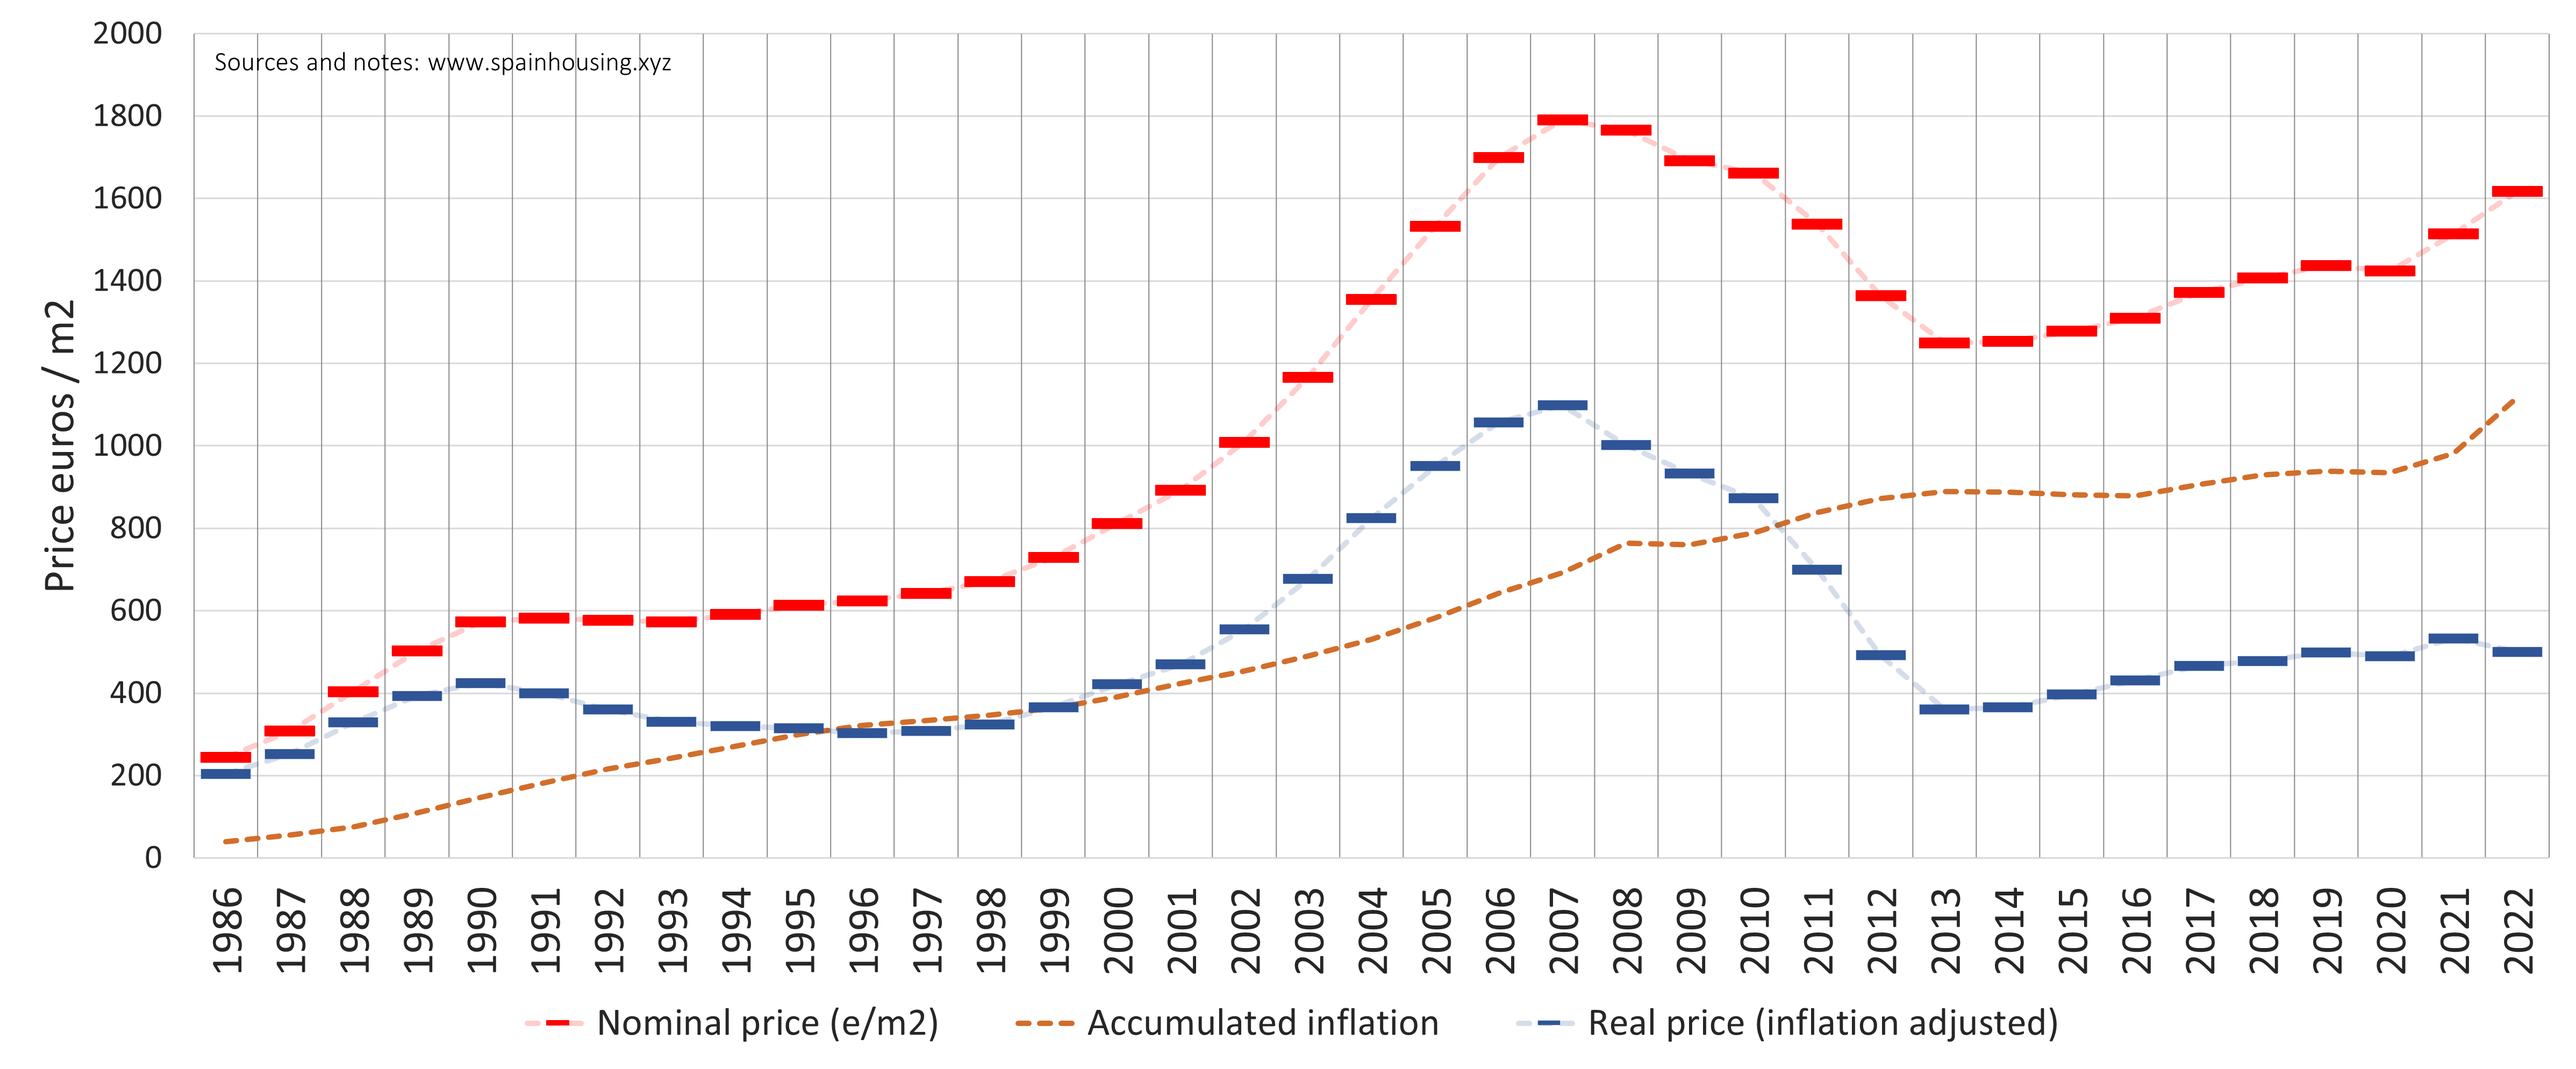
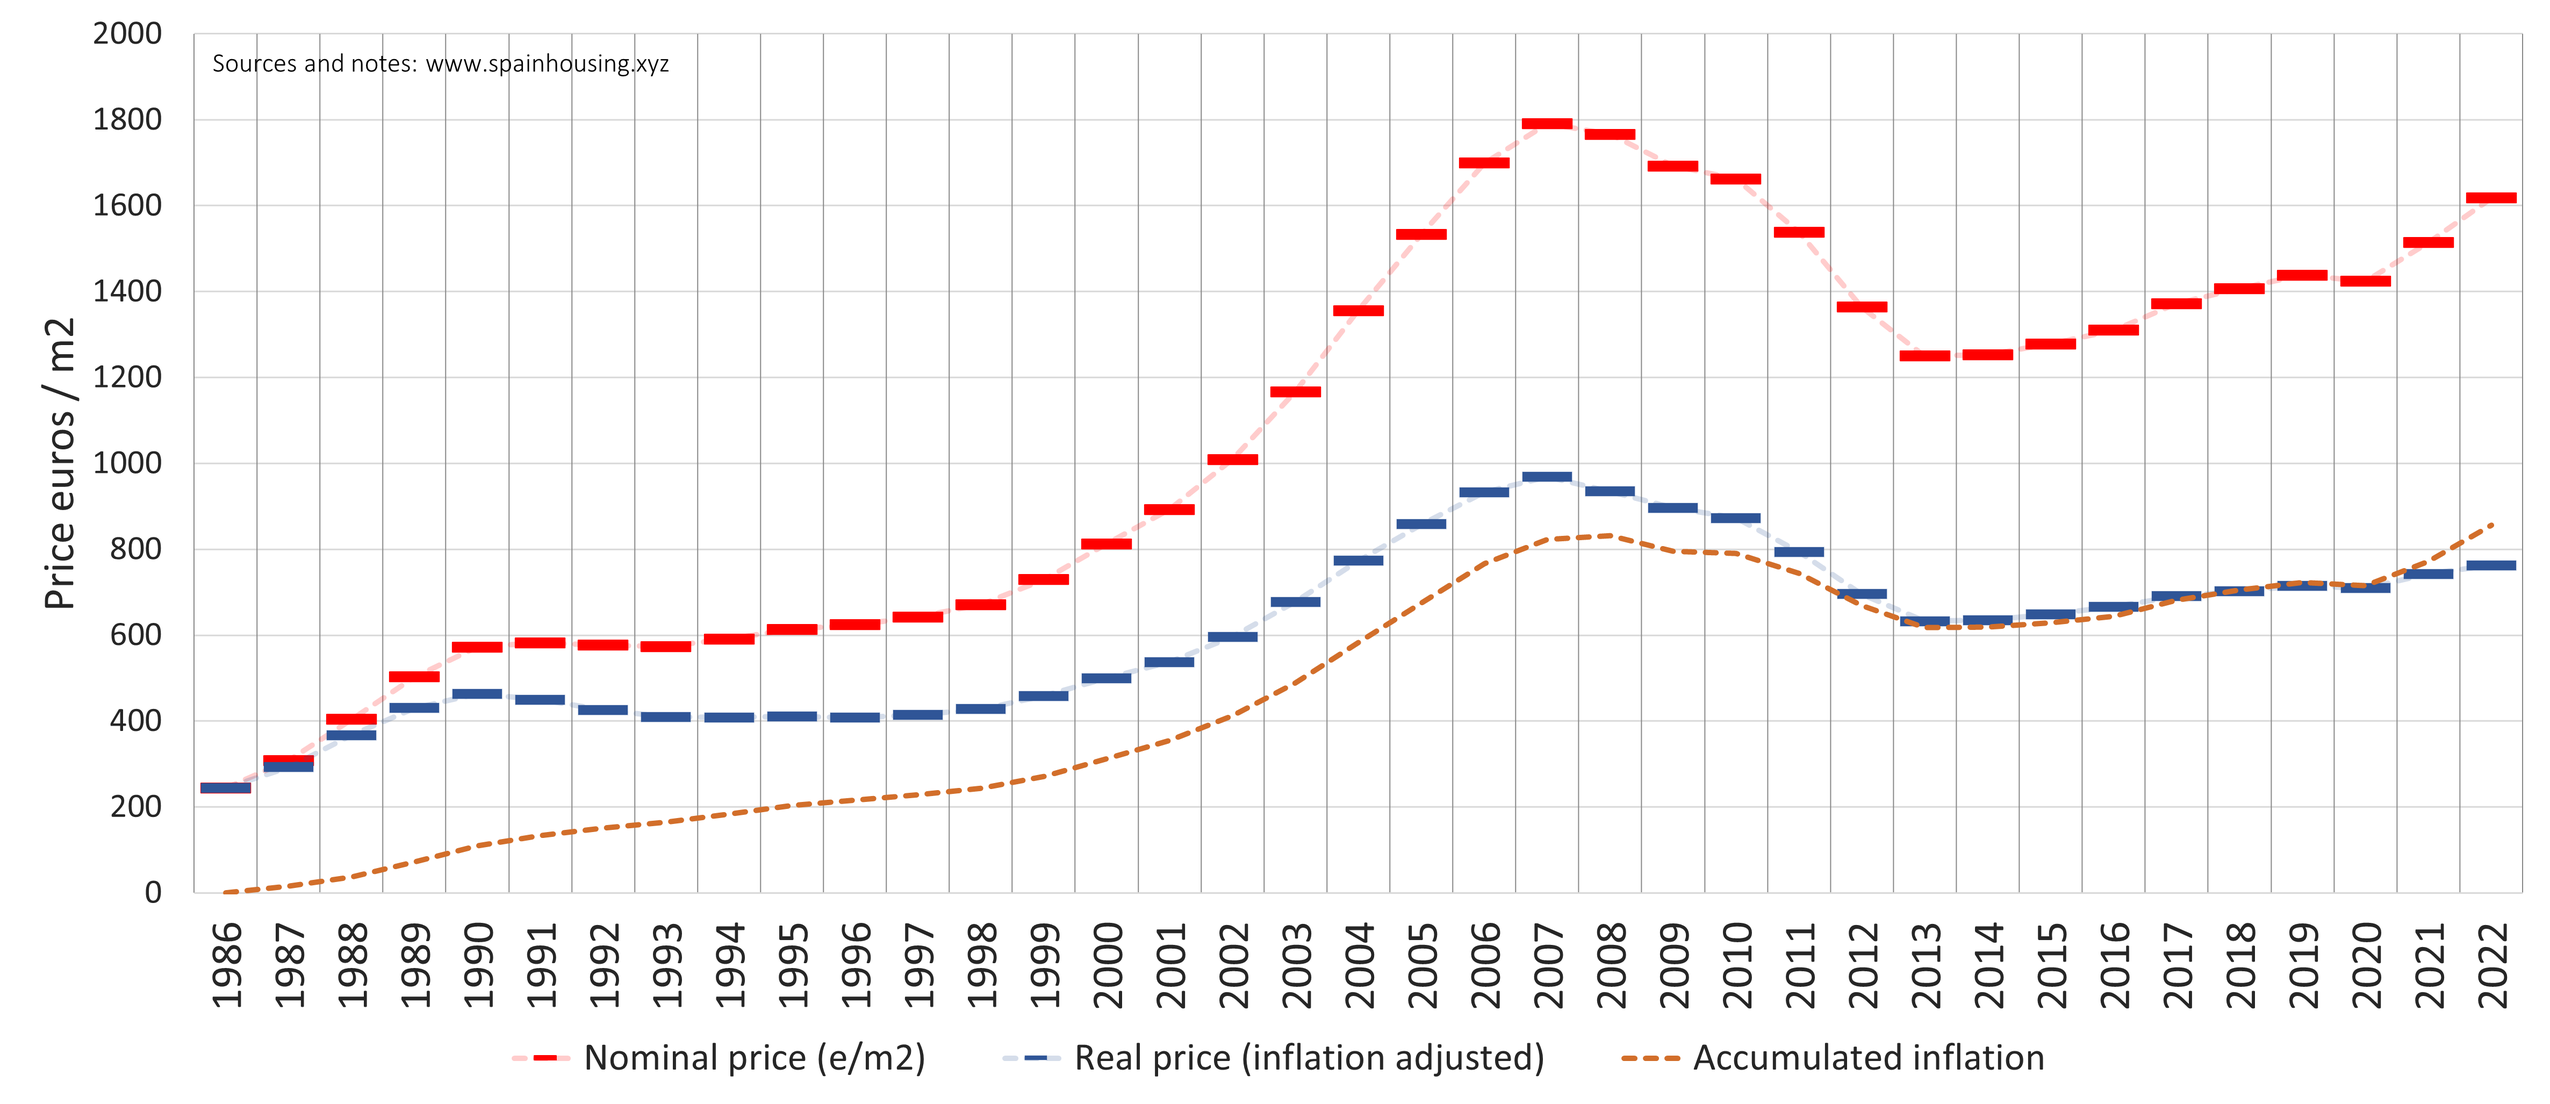
updte

diff --git a/pages/posts/multivariate.md b/pages/posts/multivariate.md
@@ -12,17 +12,16 @@ import Image from 'next/image'
 
 [![Datos del mercado inmobiliario](/images/multivariate.png)](/images/multivariate.png)
 
-- **Unemployment and Inflation**: average rate for the given year. **Population, Mortgages, Home sales, Real price and Nominal price**: percentage of annual change compared to the previous year.
+- **Unemployment, Inflation and Real price**: average rate for the given year. **Population, Mortgages, Home sales and Nominal price**: percentage of annual change compared to the previous year.
 
 # Interpretation and observations
 
 The model groups together seven variables: price (real and nominal), sales, inflation, credit, demographics and employment. A couple of observations:
 
-- **Observation A**: Inflation followed a decreasing trend from 1986 to 2020.
-- **Observation B**: Between 2001 and 2008, the population increased due to an immigration wave.
-- **Observation C**: When unemployment increases, the price of housing tends to decrease.
-- **Observation D**: The black bar informs us of the price movement in nominal terms. For example, between 1986 and 1990 the rise in house prices was very high, due to inflation.
-- **Observation E**: The orange bar, real price, informs us of the de/revaluation of housing. For example, in 2012, there was a strong devaluation, and in 2017 a strong revaluation.
+- **Observation A**: When unemployment increases, the price of housing tends to decrease.
+- **Observation B**: Inflation has been following a decreasing trend, at least until 2020.
+- **Observation B**: Between 2000 and 2008 the population increased rapidly, due to immigration.
+- **Observation D**: Between 1986 and 1990 the rise in prices was very high, both in nominal and real terms, due to inflation.
 
 # Data sources
 

diff --git a/pages/posts/price.md b/pages/posts/price.md
@@ -12,15 +12,15 @@ import Image from 'next/image'
 
 [![Evolución precio de la vivienda](/images/priceyearly.png)](/images/priceyearly.png)
 
-- **House price in Spain since 1986**: in euros per square meter, inflation-adjusted (real price), unadjusted (nominal price), and accumulated inflation.
+- **House price in Spain since 1986, in euros per square meter**: real price (inflation-adjusted, CPI Base 100 = 1986), unadjusted (nominal price), and accumulated inflation.
 
 # Interpretation and observations
 
 The chart from above shows the average annual house price in Spain. A couple of observations:
 
 - **Observation A**: The price of housing is constantly rising due to inflation, a consequence of current monetary policy.
-- **Observation B**: The uptrend in prices is however cyclical, with moments of expansion and recession, linked to debt cycles.
-- **Observation C**: The cycles are easily visible if we look at the line representing the real price (inflation-adjusted). It allows us to see, for example, the magnitude of the real-estate bubble from the early 2000s.
+- **Observation B**: The uptrend in prices is however cyclical, with moments of expansion and recession.
+- **Observation C**: The cycles are visible if we look at the real price (inflation-adjusted). It allows us to see clearly, for example, the real-estate bubble from the early 2000s.
 
 # (b) Quarterly evolution of housing prices
 

diff --git a/pages/posts/test.md b/pages/posts/test.md
@@ -1,11 +1,11 @@
 ---
-title: Wages
+title: Test
 date: 2022-11-01
 description:
-tag: Labor, Credit
+tag: test
 author: Last update on
 ---
 
 import Image from 'next/image'
 
-![Equation]( https://math.vercel.app?from=\frac{1}{\Gamma(s)}\int_{0}^{\infty}\frac{u^{s-1}}{e^{u}-1}\mathrm{d}u )
+![Equation](https://math.vercel.app?from=\frac{1}{\Gamma(s)}\int_{0}^{\infty}\frac{u^{s-1}}{e^{u}-1}\mathrm{d}u)
